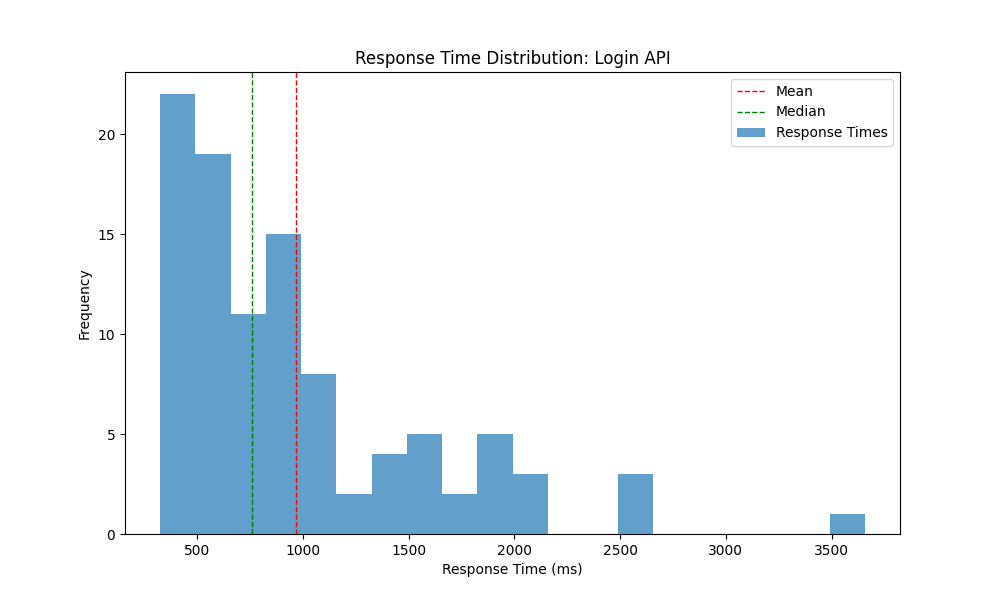
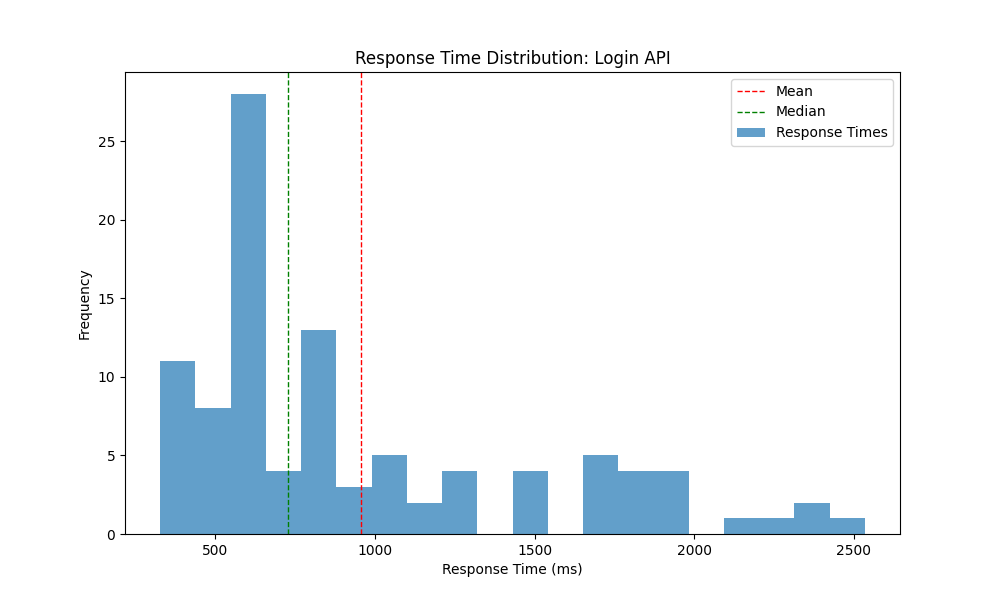
update: final update of the performance testing code

diff --git a/Backend/performance_test.py b/Backend/performance_test.py
@@ -9,7 +9,7 @@ import io
 import wave
 from locust import HttpUser, task, between
 
-# Base URL for API
+# Base URL for your API
 BASE_URL = "http://localhost:5000"  # Change to your deployment URL
 
 # Test user credentials
@@ -38,8 +38,6 @@ def create_dummy_audio():
         f.write(audio_data.getvalue())
 
     return SAMPLE_AUDIO_PATH
-
-
 
 
 # Helper function to register and log in a test user
@@ -102,6 +100,7 @@ def test_endpoint(session, method, endpoint, payload=None, files=None, params=No
 
     return result
 
+
 def run_load_test(endpoint, method, payload=None, files=None, params=None, name=None,
                   num_requests=100, concurrency=10):
     """Run a load test on a specific endpoint with concurrent requests"""
@@ -161,7 +160,6 @@ def analyze_results(results):
     }
 
 
-
 def plot_results(results, title):
     """Generate a plot of response times"""
     response_times = [r["response_time_ms"] for r in results if r["status"] == "SUCCESS"]
@@ -180,7 +178,6 @@ def plot_results(results, title):
     plt.legend(['Mean', 'Median', 'Response Times'])
     plt.savefig(f"{title.replace(' ', '_').lower()}_performance.png")
     plt.close()
-
 
 
 def run_full_test_suite():
@@ -232,8 +229,6 @@ def run_full_test_suite():
         }
     ]
 
-
-
     # Additional test for speech-to-text API with audio file
     # Note: This is a special case because it needs file upload
     def test_speech_to_text():
@@ -258,60 +253,52 @@ def run_full_test_suite():
 
         return results
 
-        # Run all test scenarios
-        all_results = {}
+    # Run all test scenarios
+    all_results = {}
 
-        for scenario in test_scenarios:
-            print(f"Running performance test for: {scenario['name']}")
-            results = run_load_test(
-                endpoint=scenario["endpoint"],
-                method=scenario["method"],
-                payload=scenario.get("payload"),
-                params=scenario.get("params"),
-                name=scenario["name"],
-                num_requests=scenario["requests"],
-                concurrency=scenario["concurrency"]
-            )
+    for scenario in test_scenarios:
+        print(f"Running performance test for: {scenario['name']}")
+        results = run_load_test(
+            endpoint=scenario["endpoint"],
+            method=scenario["method"],
+            payload=scenario.get("payload"),
+            params=scenario.get("params"),
+            name=scenario["name"],
+            num_requests=scenario["requests"],
+            concurrency=scenario["concurrency"]
+        )
 
-            analysis = analyze_results(results)
-            all_results[scenario["name"]] = {
-                "results": results,
-                "analysis": analysis
-            }
-
-            print(f"Completed {scenario['name']} test:")
-            print(f"  Success Rate: {analysis['success_rate']:.2f}%")
-            print(f"  Avg Response Time: {analysis['avg_response_time']:.2f} ms")
-            print(f"  95th Percentile: {analysis['p95_response_time']:.2f} ms")
-
-            plot_results(results, scenario["name"])
-
-        # Run speech-to-text test separately
-        print("Running performance test for: Speech-to-Text API")
-        speech_results = test_speech_to_text()
-        speech_analysis = analyze_results(speech_results)
-        all_results["Speech-to-Text API"] = {
-            "results": speech_results,
-            "analysis": speech_analysis
+        analysis = analyze_results(results)
+        all_results[scenario["name"]] = {
+            "results": results,
+            "analysis": analysis
         }
 
-        print(f"Completed Speech-to-Text API test:")
-        print(f"  Success Rate: {speech_analysis['success_rate']:.2f}%")
-        print(f"  Avg Response Time: {speech_analysis['avg_response_time']:.2f} ms")
-        print(f"  95th Percentile: {speech_analysis['p95_response_time']:.2f} ms")
+        print(f"Completed {scenario['name']} test:")
+        print(f"  Success Rate: {analysis['success_rate']:.2f}%")
+        print(f"  Avg Response Time: {analysis['avg_response_time']:.2f} ms")
+        print(f"  95th Percentile: {analysis['p95_response_time']:.2f} ms")
 
-        plot_results(speech_results, "Speech-to-Text API")
+        plot_results(results, scenario["name"])
 
-        # Generate overall performance report
-        generate_performance_report(all_results)
+    # Run speech-to-text test separately
+    print("Running performance test for: Speech-to-Text API")
+    speech_results = test_speech_to_text()
+    speech_analysis = analyze_results(speech_results)
+    all_results["Speech-to-Text API"] = {
+        "results": speech_results,
+        "analysis": speech_analysis
+    }
 
+    print(f"Completed Speech-to-Text API test:")
+    print(f"  Success Rate: {speech_analysis['success_rate']:.2f}%")
+    print(f"  Avg Response Time: {speech_analysis['avg_response_time']:.2f} ms")
+    print(f"  95th Percentile: {speech_analysis['p95_response_time']:.2f} ms")
 
+    plot_results(speech_results, "Speech-to-Text API")
 
-
-
-
-
-
+    # Generate overall performance report
+    generate_performance_report(all_results)
 
 
 def generate_performance_report(all_results):

diff --git a/Backend/performance_report.md b/Backend/performance_report.md
@@ -1,16 +1,16 @@
 # Spello Backend Performance Test Report
 
-Test executed on: 2025-03-23 06:03:41
+Test executed on: 2025-03-23 06:33:09
 
 ## Summary
 
 | API Endpoint | Success Rate | Avg Response (ms) | Median (ms) | 95th Percentile (ms) | Max (ms) |
 |-------------|--------------|-------------------|-------------|----------------------|---------|
-| Login API | 100.00% | 969.99 | 759.67 | 2044.23 | 3656.32 |
-| Get User Profile | 100.00% | 347.52 | 317.78 | 473.60 | 1261.08 |
-| Get Target Word | 100.00% | 273.87 | 231.90 | 375.05 | 1506.89 |
-| Dashboard Data | 100.00% | 254.11 | 217.35 | 356.45 | 1271.14 |
-| Speech-to-Text API | 100.00% | 70.92 | 55.52 | 78.58 | 888.29 |
+| Login API | 100.00% | 955.61 | 726.59 | 1934.98 | 2534.02 |
+| Get User Profile | 100.00% | 395.70 | 354.72 | 652.12 | 1316.85 |
+| Get Target Word | 100.00% | 534.04 | 455.52 | 820.13 | 2201.77 |
+| Dashboard Data | 100.00% | 433.84 | 266.99 | 1138.19 | 1700.03 |
+| Speech-to-Text API | 100.00% | 180.30 | 49.50 | 149.09 | 5890.57 |
 
 ## Detailed Results
 
@@ -18,13 +18,13 @@ Test executed on: 2025-03-23 06:03:41
 
 - **Total Requests**: 100
 - **Success Rate**: 100.00%
-- **Min Response Time**: 326.02 ms
-- **Max Response Time**: 3656.32 ms
-- **Average Response Time**: 969.99 ms
-- **Median Response Time**: 759.67 ms
-- **90th Percentile**: 1849.33 ms
-- **95th Percentile**: 2044.23 ms
-- **99th Percentile**: 2535.59 ms
+- **Min Response Time**: 327.00 ms
+- **Max Response Time**: 2534.02 ms
+- **Average Response Time**: 955.61 ms
+- **Median Response Time**: 726.59 ms
+- **90th Percentile**: 1800.35 ms
+- **95th Percentile**: 1934.98 ms
+- **99th Percentile**: 2413.48 ms
 
 ![Response Time Distribution for Login API](login_api_performance.png)
 
@@ -32,13 +32,13 @@ Test executed on: 2025-03-23 06:03:41
 
 - **Total Requests**: 100
 - **Success Rate**: 100.00%
-- **Min Response Time**: 187.18 ms
-- **Max Response Time**: 1261.08 ms
-- **Average Response Time**: 347.52 ms
-- **Median Response Time**: 317.78 ms
-- **90th Percentile**: 441.38 ms
-- **95th Percentile**: 473.60 ms
-- **99th Percentile**: 1249.08 ms
+- **Min Response Time**: 188.55 ms
+- **Max Response Time**: 1316.85 ms
+- **Average Response Time**: 395.70 ms
+- **Median Response Time**: 354.72 ms
+- **90th Percentile**: 557.12 ms
+- **95th Percentile**: 652.12 ms
+- **99th Percentile**: 1313.85 ms
 
 ![Response Time Distribution for Get User Profile](get_user_profile_performance.png)
 
@@ -46,13 +46,13 @@ Test executed on: 2025-03-23 06:03:41
 
 - **Total Requests**: 100
 - **Success Rate**: 100.00%
-- **Min Response Time**: 164.97 ms
-- **Max Response Time**: 1506.89 ms
-- **Average Response Time**: 273.87 ms
-- **Median Response Time**: 231.90 ms
-- **90th Percentile**: 367.64 ms
-- **95th Percentile**: 375.05 ms
-- **99th Percentile**: 1500.89 ms
+- **Min Response Time**: 213.50 ms
+- **Max Response Time**: 2201.77 ms
+- **Average Response Time**: 534.04 ms
+- **Median Response Time**: 455.52 ms
+- **90th Percentile**: 700.18 ms
+- **95th Percentile**: 820.13 ms
+- **99th Percentile**: 2182.35 ms
 
 ![Response Time Distribution for Get Target Word](get_target_word_performance.png)
 
@@ -60,13 +60,13 @@ Test executed on: 2025-03-23 06:03:41
 
 - **Total Requests**: 100
 - **Success Rate**: 100.00%
-- **Min Response Time**: 161.57 ms
-- **Max Response Time**: 1271.14 ms
-- **Average Response Time**: 254.11 ms
-- **Median Response Time**: 217.35 ms
-- **90th Percentile**: 324.74 ms
-- **95th Percentile**: 356.45 ms
-- **99th Percentile**: 1265.14 ms
+- **Min Response Time**: 158.91 ms
+- **Max Response Time**: 1700.03 ms
+- **Average Response Time**: 433.84 ms
+- **Median Response Time**: 266.99 ms
+- **90th Percentile**: 998.88 ms
+- **95th Percentile**: 1138.19 ms
+- **99th Percentile**: 1202.95 ms
 
 ![Response Time Distribution for Dashboard Data](dashboard_data_performance.png)
 
@@ -74,13 +74,13 @@ Test executed on: 2025-03-23 06:03:41
 
 - **Total Requests**: 50
 - **Success Rate**: 100.00%
-- **Min Response Time**: 31.33 ms
-- **Max Response Time**: 888.29 ms
-- **Average Response Time**: 70.92 ms
-- **Median Response Time**: 55.52 ms
-- **90th Percentile**: 76.93 ms
-- **95th Percentile**: 78.58 ms
-- **99th Percentile**: 95.38 ms
+- **Min Response Time**: 37.01 ms
+- **Max Response Time**: 5890.57 ms
+- **Average Response Time**: 180.30 ms
+- **Median Response Time**: 49.50 ms
+- **90th Percentile**: 94.05 ms
+- **95th Percentile**: 149.09 ms
+- **99th Percentile**: 419.11 ms
 
 ![Response Time Distribution for Speech-to-Text API](speech-to-text_api_performance.png)
 
@@ -88,7 +88,8 @@ Test executed on: 2025-03-23 06:03:41
 
 The following endpoints have slow response times (95th percentile > 1000ms):
 
-- **Login API**: 2044.23 ms
+- **Login API**: 1934.98 ms
+- **Dashboard Data**: 1138.19 ms
 
 Possible improvement areas:
 
